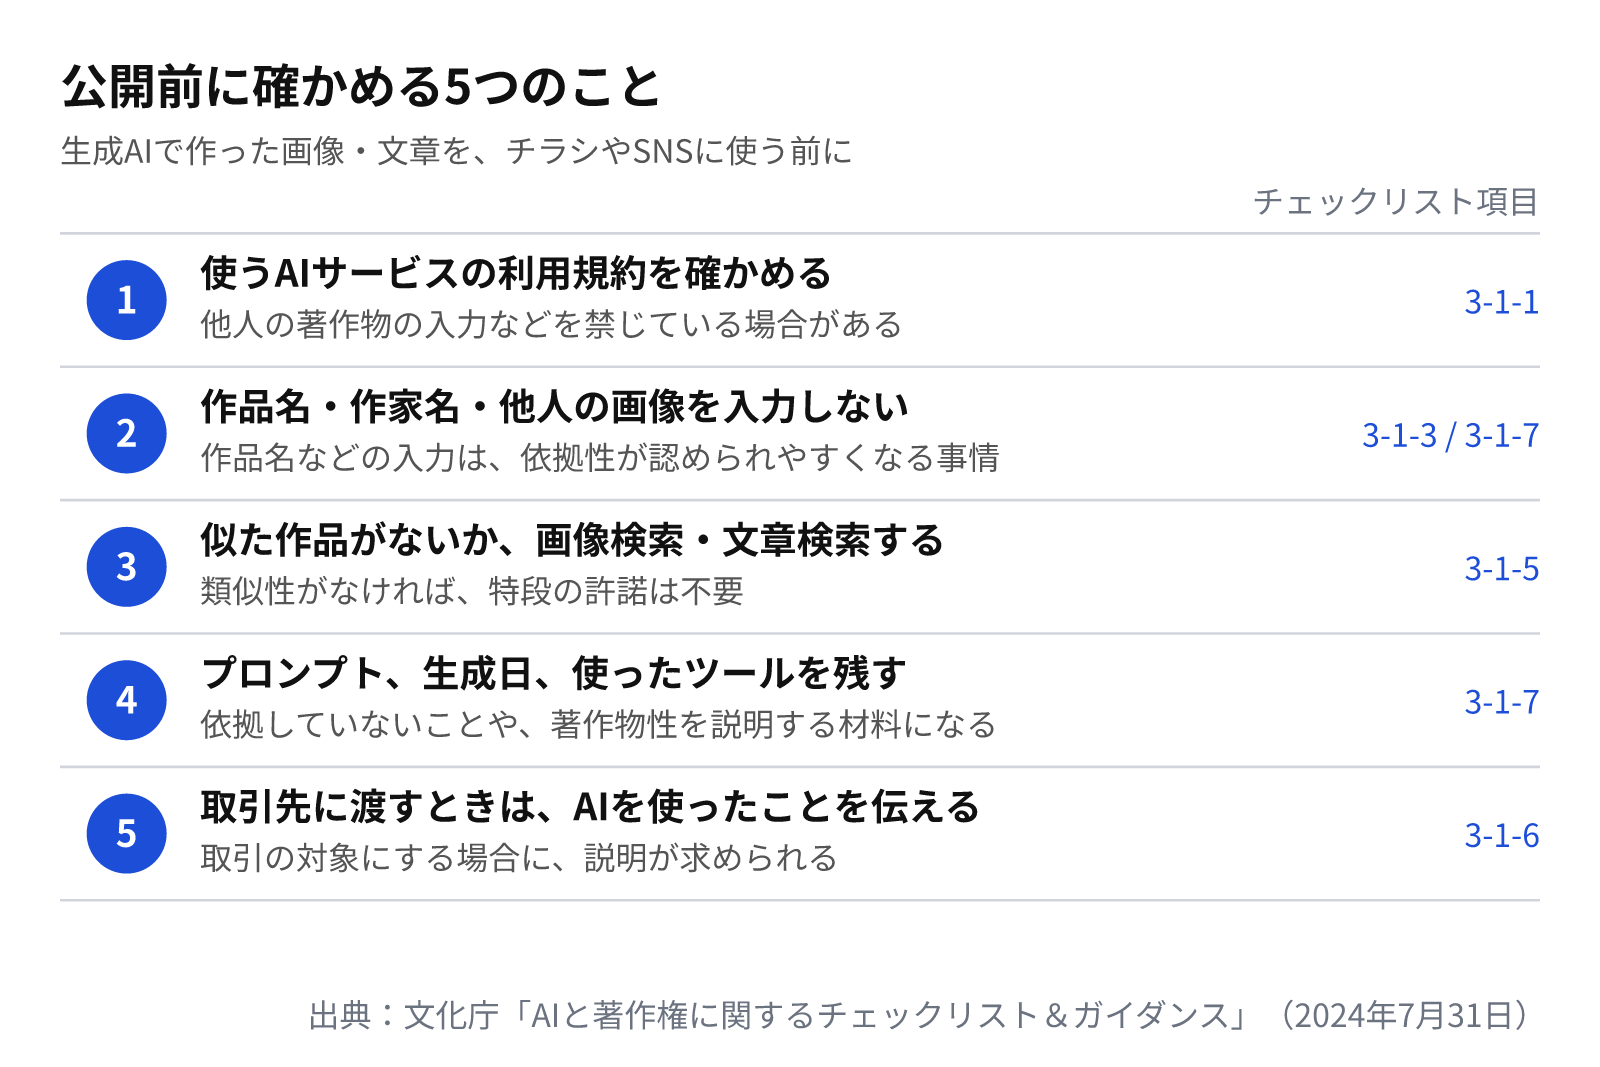
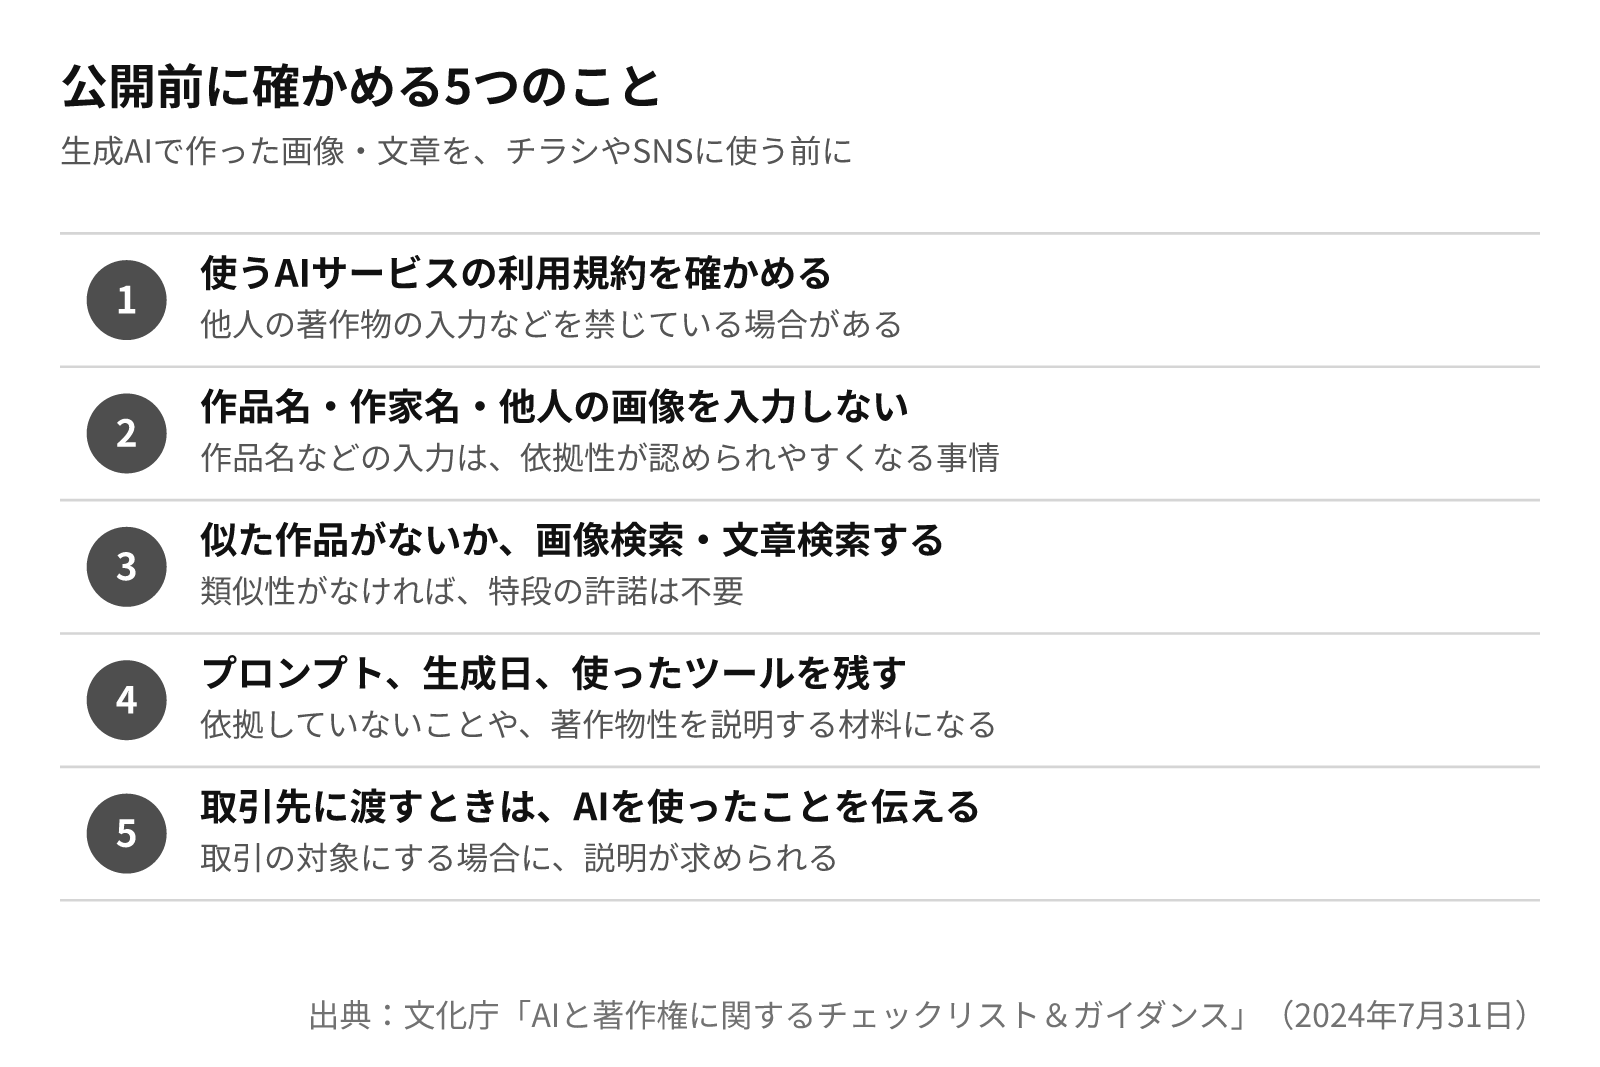
Publish staged genai-image-copyright-checklist updates
Replace the article with the staged revision (emoji FE0F fix and
copy/table updates), refresh proof.png and fig2-checklist.png, and
remove the unused cover.png image.

diff --git a/articles/genai-image-copyright-checklist.md b/articles/genai-image-copyright-checklist.md
@@ -1,6 +1,6 @@
 ---
 title: "生成AIで作ったチラシ画像を公開する前に。文化庁の確認項目と、2026年8月の「プリンシプル・コード」で変わること"
-emoji: "🖼"
+emoji: "🖼"
 type: "idea"
 topics: ["ai", "generativeai", "copyright", "imagegeneration", "dx"]
 published: true
@@ -8,9 +8,7 @@ published: true
 
 生成AIで作った画像や文章を、チラシやSNS、自社サイトに使うこと自体は禁止されていません。ただし、公開すれば通常の著作権侵害と同じ基準で判断されます。「AIが作ったものだから」は理由になりません。
 中小企業が先に決めておきたいのは、「既存の作品名や作家名を入力しない」「公開前に似たものがないか検索する」「使ったプロンプトを残す」の3点です。
-2026年8月に政府が公表した「プリンシプル・コード」で、利用者がAI事業者に学習データについて照会できるようになりました。照会するときにも、残しておいたプロンプトが必要になります。
-
-![小さな印刷店のカウンターに広げられた刷り上がりのチラシと、ルーペ](/images/mvaalbtd/cover.png)
+2026年8月に公表された「プリンシプル・コード」では、コードを受け入れたAI事業者に対して、利用者が学習データについて照会できる仕組みが示されています。照会するときにも、残しておいたプロンプトが必要になります。
 
 ## 論点は3つに分けて考える
 
@@ -32,19 +30,19 @@ AIを業務で使う側の企業に主に関わるのは、後の2つです。
 
 ![公開前に確かめる5つのこと。利用規約、入力内容、類似検索、記録、取引先への説明](/images/mvaalbtd/fig2-checklist.png)
 
-| チェックリストの項目 | 資料の記載 | 社内でやること |
-|---|---|---|
-| 3-1-1 | 利用規約に、他人の著作物の入力禁止など、侵害のおそれがある使い方を禁止・制限する定めがある場合がある | 会社で使うサービスの規約を確認し、担当者が要点をまとめておく |
-| 3-1-3 | 既存の画像を入力して似たものを作らせる目的なら、許諾が必要になる場合がある | 他社の広告や他人のイラストを入力しない |
-| 3-1-5 | 利用に先立ち、既存の作品と似ていないかを確認する。インターネットの文章検索・画像検索の活用など | 社外に出す前に、画像検索・文章検索を1回かける |
-| 3-1-7 | 作品のタイトルやキャラクター名を入力すると、依拠性が認められやすくなる。生成過程を確認できる状態にしておく | プロンプト、生成日、ツール名を保存する |
-| 3-1-6 | AI生成物を取引の対象にするときは、AIを使ったことや、似ていないかの確認状況を説明できるようにする | 納品物にAIを使ったら、取引先に伝える |
+| 資料の記載（要旨） | 社内でやること |
+|---|---|
+| 利用規約に、他人の著作物の入力禁止など、侵害のおそれがある使い方を禁止・制限する定めがある場合がある | 会社で使うサービスの規約を確認し、担当者が要点をまとめておく |
+| 既存の画像を入力して似たものを作らせる目的なら、許諾が必要になる場合がある | 他社の広告や他人のイラストを入力しない |
+| 利用に先立ち、既存の作品と似ていないかを確認する。インターネットの文章検索・画像検索の活用など | 社外に出す前に、画像検索・文章検索を1回かける |
+| 作品のタイトルやキャラクター名を入力すると、依拠性が認められやすくなる。生成過程を確認できる状態にしておく | プロンプト、生成日、ツール名を保存する |
+| AI生成物を取引の対象にするときは、AIを使ったことや、似ていないかの確認状況を説明できるようにする | 納品物にAIを使ったら、取引先に伝える |
 
-なお、チェックリスト自体が、すべて実施すれば法的責任を問われないという意味ではない、と断っています。
+なお、チェックリストの項目をすべて実施したからといって、法的責任を問われないことが保証されるわけではありません。
 
 たとえば、店舗の季節チラシに使う背景イラストを生成する場合を考えます。プロンプトに特定の作家名や作品名を入れず、色や構図、季節感を自分の言葉で指定します。出来上がった画像は画像検索にかけ、似たものが見つからないことを確認します。使ったプロンプトと生成日は、チラシのデータと同じフォルダに保存します。作業は数分ほど増えますが、あとで説明が必要になったときの材料になります。
 
-![店舗の事務所で、印刷したチラシの校正紙とノートパソコンの画面を見比べる担当者](/images/mvaalbtd/proof.png)
+![海岸の岩棚に露出した、薄い層が幾重にも重なった地層。積み重なった記録のように見える](/images/mvaalbtd/proof.png)
 
 ## 自社で作ったAI画像は守られるのか
 
@@ -62,7 +60,7 @@ AIを業務で使う側の企業に主に関わるのは、後の2つです。
 
 チェックリストも、生成物の著作物性を説明する観点から、プロンプトなどを確認できるようにしておくことを勧めています。侵害を疑われたときにも、自社の生成物を守りたいときにも、必要になるのは記録です。
 
-## 2026年の変化：利用者がAI事業者に照会できるようになった
+## 2026年の変化：AI事業者への照会の仕組みが示された
 
 ![AIと著作権をめぐる主な公表と出来事の時系列](/images/mvaalbtd/fig3-timeline.png)
 
@@ -90,7 +88,7 @@ AIの利用ルールをすでに作っている会社も多いと思います。
 4. 取引先に納品するものにAIを使った場合は、そのことを伝える
 5. 権利者から指摘を受けたときの窓口と、公開停止・原因確認の手順を決めておく
 
-5番目は、チェックリストの3-1-2に対応します。資料では、侵害が生じた場合の対応として、情報共有、サービスの停止・復旧、権利者への対応、原因の解明、再発防止策を、あらかじめ想定して検討しておくことが望ましいとしています。
+5番目は、チェックリストのAI利用者向けの項目に対応します。資料では、侵害が生じた場合の対応として、情報共有、サービスの停止・復旧、権利者への対応、原因の解明、再発防止策を、あらかじめ想定して検討しておくことが望ましいとしています。
 
 ここまでの内容は、公表されている国の資料に基づく一般的な整理です。個別の生成物が侵害に当たるかどうかは事案ごとに判断されるため、迷う場合は弁護士などの専門家に相談してください。社内ルール全体の作り方は、[社内AI利用ルールの作り方](https://ai.sanvia.co.jp/articles/ai-usage-policy?utm_source=zenn&utm_medium=article&utm_campaign=mvaalbtd)にまとめています。自社でAIをどこから使い始めるとよいかは、[AIみちしるべのAI導入診断](https://ai.sanvia.co.jp/diagnosis?utm_source=zenn&utm_medium=article&utm_campaign=mvaalbtd)で確認できます。
 
